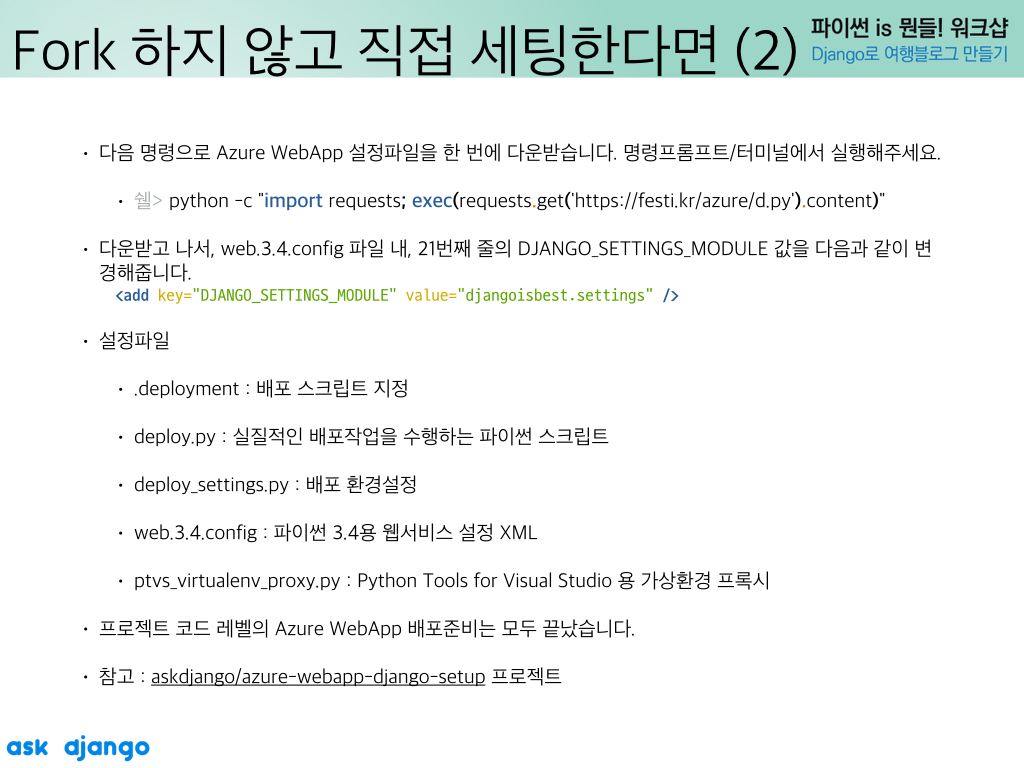
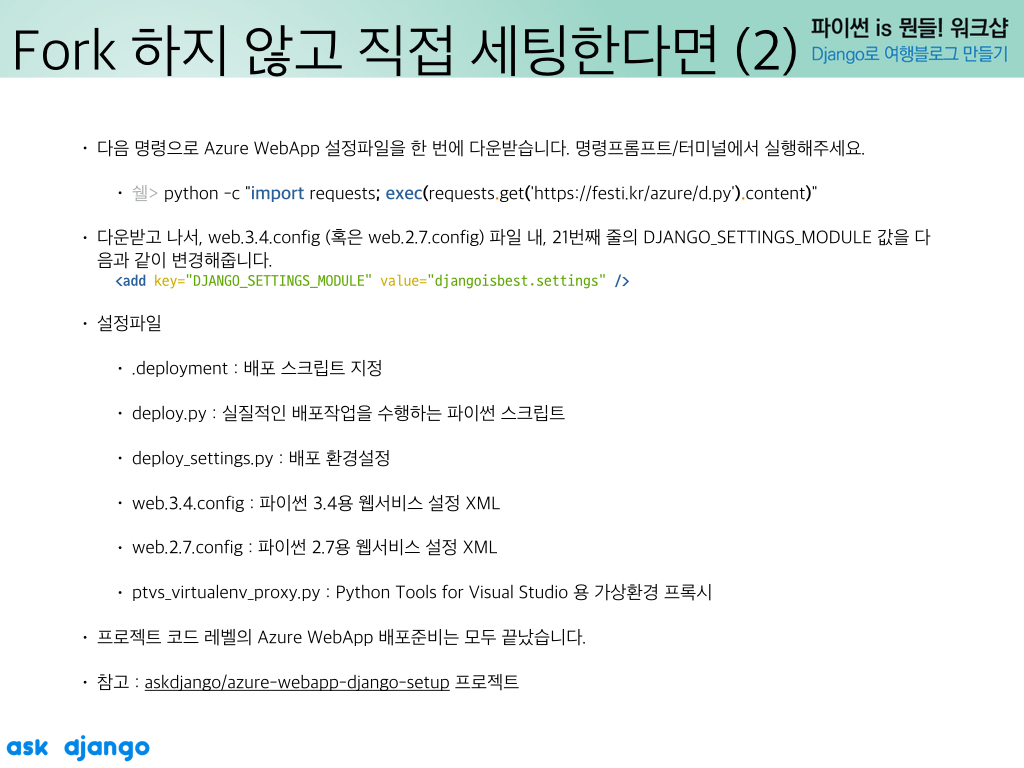
Python 2.7 지원 추가

diff --git a/deploy.py b/deploy.py
@@ -36,8 +36,13 @@ class AskDjango(object):
 
         self.python_version = deploy_settings.PYTHON_VERSION
         self.python_runtime = 'python-%s' % self.python_version
-        self.python_path = deploy_settings.PYTHON_PATH
-        self.python_env_module = deploy_settings.PYTHON_ENV_MODULE
+
+        if self.python_version.startswith('2.'):
+            self.python_env_module = 'virtualenv'
+            self.python_path = os.path.join(os.environ['SYSTEMDRIVE'] + os.path.sep, 'python27', 'python.exe')
+        else:
+            self.python_env_module = 'venv'
+            self.python_path = os.path.join(os.environ['SYSTEMDRIVE'] + os.path.sep, 'python34', 'python.exe')
 
         self.is_skip_python_deployment = deploy_settings.IS_SKIP_PYTHON_DEPLOYMENT
         self.is_skip_django_extra = deploy_settings.IS_SKIP_DJANGO_EXTRA

diff --git a/download.py b/download.py
@@ -5,7 +5,7 @@ import requests
 
 def main():
     base = 'https://raw.githubusercontent.com/askdjango/azure-webapp-django-setup/master/'
-    names = ['.deployment', 'deploy.py', 'deploy_settings.py', 'web.3.4.config', 'ptvs_virtualenv_proxy.py']
+    names = ['.deployment', 'deploy.py', 'deploy_settings.py', 'web.2.7.config', 'web.3.4.config', 'ptvs_virtualenv_proxy.py']
 
     for name in names:
         url = base + name

diff --git a/deploy_settings.py b/deploy_settings.py
@@ -2,8 +2,9 @@
 import os
 
 PYTHON_VERSION = '3.4'
-PYTHON_PATH = os.path.join(os.environ['SYSTEMDRIVE'] + os.path.sep, 'python34', 'python.exe')
-PYTHON_ENV_MODULE = 'venv'
+
+assert(PYTHON_VERSION in ('3.4', '2.7'))
+
 
 # 가상환경을 env 디렉토리에 이미 생성하셨다면, True로 설정해주세요.
 IS_SKIP_PYTHON_DEPLOYMENT = False
